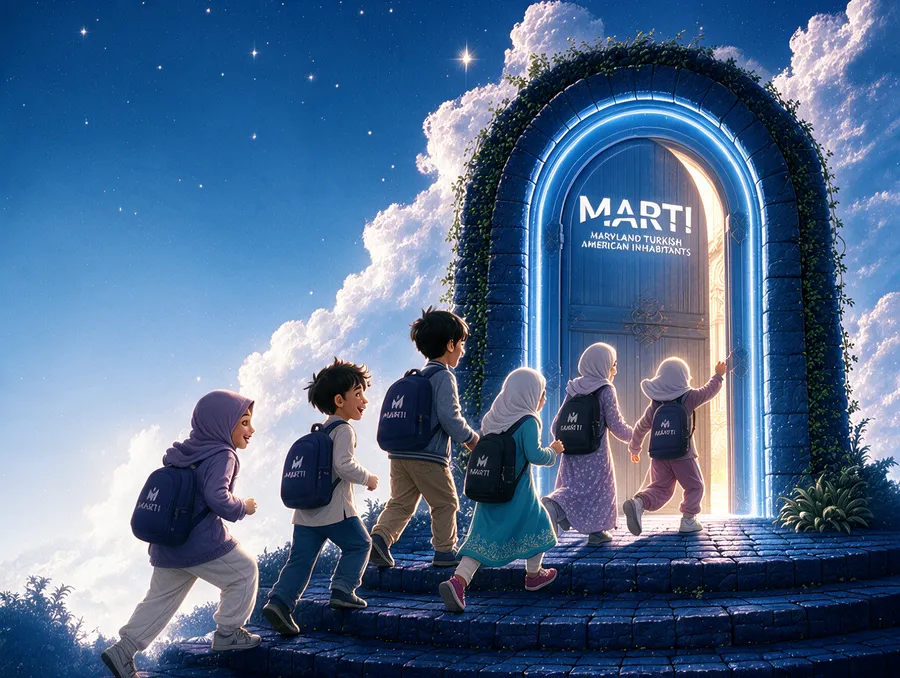
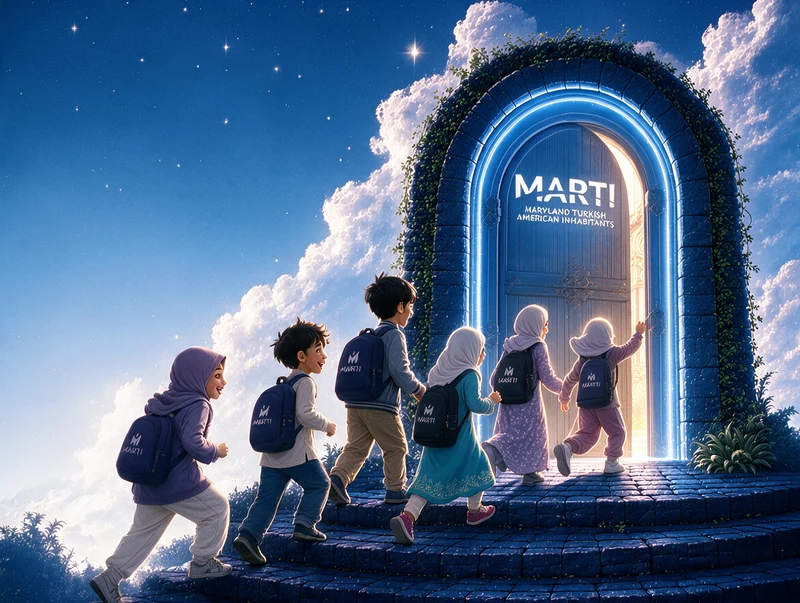
Show the hero artwork uncropped and unshaded, drop the floating chips
The picture was set to cover, which cropped into it and read as heavily
zoomed. It now uses contain, so the whole scene stays in frame: the steps,
the archway and every child.

Removed the cream wash that sat over it. To do that without the headline
landing on dark artwork, the image is confined to the right 52% of the
section rather than spanning the whole width, so the text column keeps a
clean cream background of its own. A narrow gradient softens only the inner
edge where the two meet. Below the large breakpoint the picture still sits
behind the text, so it keeps a scrim there.

Dropped the 168 students badge and the Saturday timetable chip.

Kept the resolution high: the source is 1168px wide, so it ships at that
native size rather than being upscaled, which would have added weight without
adding detail.

diff --git a/src/components/sections/HeroSection.tsx b/src/components/sections/HeroSection.tsx
@@ -49,20 +49,30 @@ export function HeroSection() {
         className="relative overflow-hidden bg-cream-200 pb-16 pt-28 sm:pt-36 lg:min-h-[42rem]"
       >
         {/*
-          The artwork is the section background, anchored right, with a cream
-          gradient laid over it. The image therefore dissolves into the page
-          behind the headline instead of sitting in a box beside it.
+          The artwork occupies the right side at full strength, with nothing
+          laid over it. `contain` shows the whole scene rather than cropping
+          into it, so the children and the archway all stay in frame.
+
+          It is confined to the right half rather than the full section, so
+          the headline keeps a clean cream background and needs no scrim to
+          stay readable. A narrow cream gradient softens the inner edge where
+          the picture meets the text column.
         */}
         <div
           aria-hidden
-          className="absolute inset-0 bg-[url('/hero-900.webp')] bg-cover bg-right bg-no-repeat lg:bg-[url('/hero.webp')]"
-        />
-        <div
-          aria-hidden
-          className="absolute inset-0 bg-gradient-to-b from-cream-200/70 via-cream-200/85 to-cream-200 lg:bg-gradient-to-r lg:from-cream-200 lg:from-20% lg:via-cream-200/80 lg:via-50% lg:to-transparent lg:to-72%"
-        />
+          className="absolute inset-y-0 right-0 hidden w-[52%] lg:block"
+        >
+          <div className="absolute inset-0 bg-[url('/hero.webp')] bg-contain bg-right bg-no-repeat" />
+          <div className="absolute inset-y-0 left-0 w-32 bg-gradient-to-r from-cream-200 to-transparent" />
+        </div>
 
-        {/* Drifting blobs give the page a soft, hand-made feel. */}
+        {/* Below lg the picture sits under the text, so it needs a scrim. */}
+        <div aria-hidden className="absolute inset-0 lg:hidden">
+          <div className="absolute inset-0 bg-[url('/hero-900.webp')] bg-cover bg-right bg-no-repeat" />
+          <div className="absolute inset-0 bg-gradient-to-b from-cream-200/85 via-cream-200/80 to-cream-200" />
+        </div>
+
+        {/* Drifting blob gives the page a soft, hand-made feel. */}
         <motion.div
           aria-hidden
           animate={reduced ? undefined : { y: [0, 20, 0], scale: [1, 1.07, 1] }}
@@ -156,44 +166,8 @@ export function HeroSection() {
                 ))}
               </motion.div>
             </div>
-
-            {/*
-              The artwork lives in the section background now. This column
-              simply reserves the space it occupies and carries the chips
-              that sit over it.
-            */}
-            <div className="relative hidden min-h-[26rem] lg:block">
-              <motion.div
-                aria-hidden
-                animate={reduced ? undefined : { y: [0, -10, 0], rotate: [-3, 3, -3] }}
-                transition={{ duration: 5.5, repeat: Infinity, ease: 'easeInOut' }}
-                className="absolute bottom-4 left-0 flex items-center gap-2.5 rounded-3xl border-2 border-ink bg-amber-400 px-4 py-3 shadow-pop"
-              >
-                <span className="text-2xl">🎉</span>
-                <div>
-                  <p className="font-display text-lg font-extrabold leading-none text-ink">
-                    <CountUp value={168} />
-                  </p>
-                  <p className="text-[11px] font-bold text-ink-800">{t('home.statStudents')}</p>
-                </div>
-              </motion.div>
-
-              <motion.div
-                animate={reduced ? undefined : { y: [0, -8, 0] }}
-                transition={{ duration: 6.5, repeat: Infinity, ease: 'easeInOut', delay: 0.8 }}
-                className="absolute right-0 top-2 flex items-center gap-2.5 rounded-3xl border-2 border-ink bg-white px-4 py-3 shadow-pop"
-              >
-                <span className="text-2xl" aria-hidden>
-                  🗓
-                </span>
-                <div>
-                  <p className="font-display text-sm font-extrabold leading-none text-ink">
-                    {t('calendar.timeTitle')}
-                  </p>
-                  <p className="mt-1 text-[11px] font-bold text-ink-500">09:30 to 13:00</p>
-                </div>
-              </motion.div>
-            </div>
+            {/* Reserves the right half for the artwork behind it. */}
+            <div className="hidden min-h-[28rem] lg:block" aria-hidden />
           </div>
         </div>
       </section>
